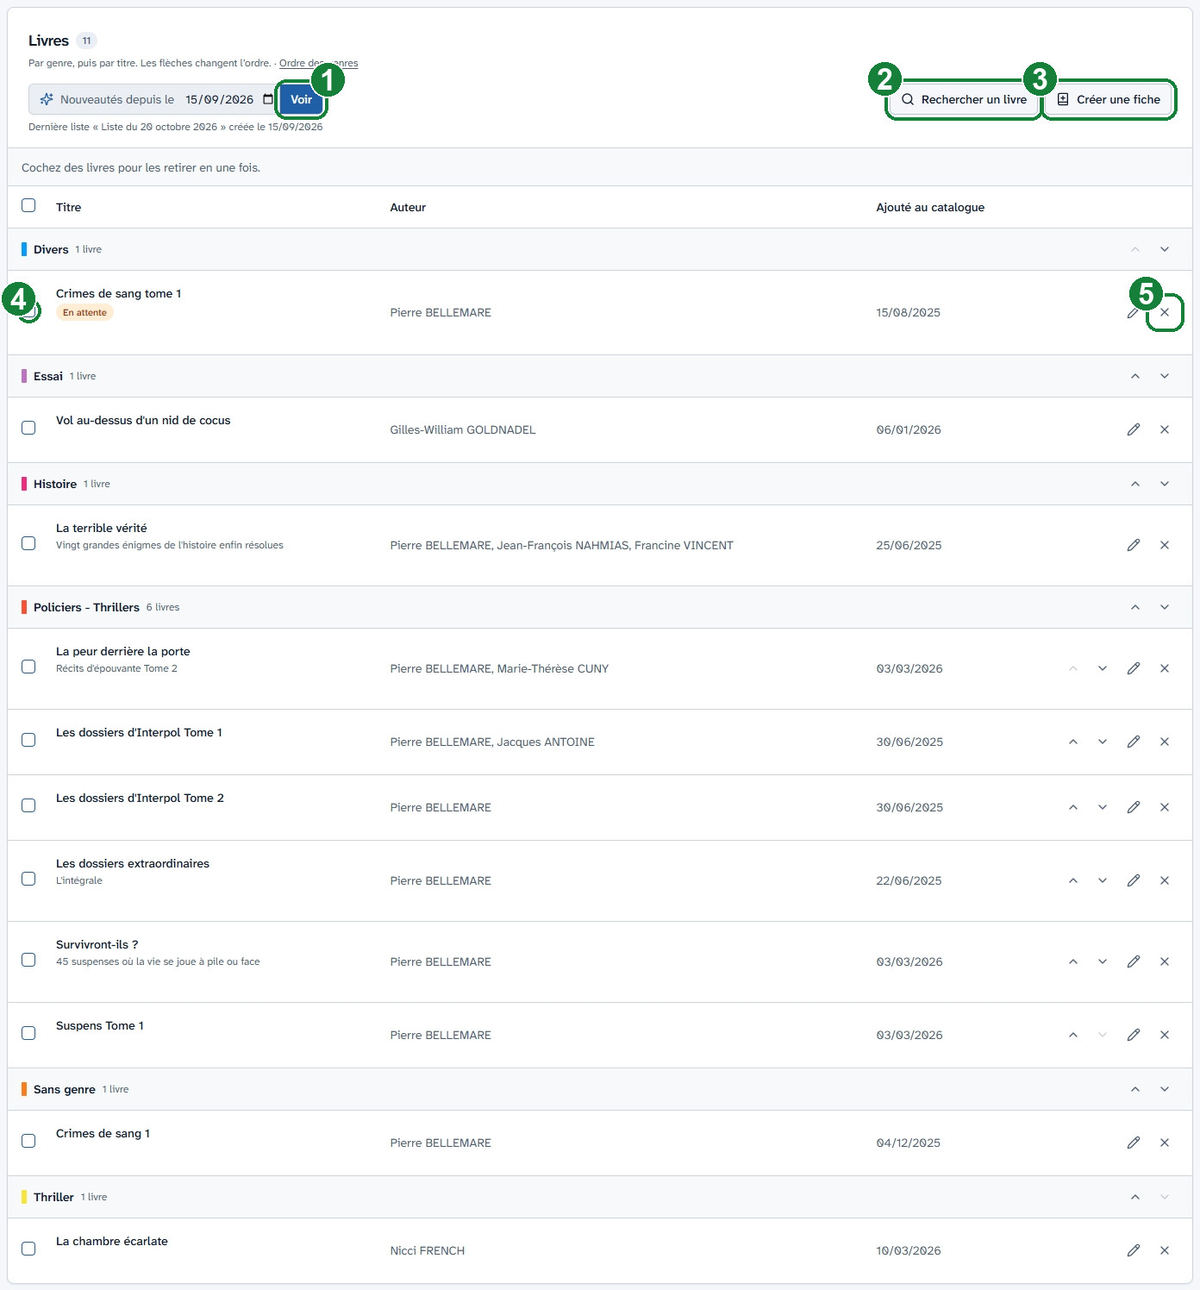
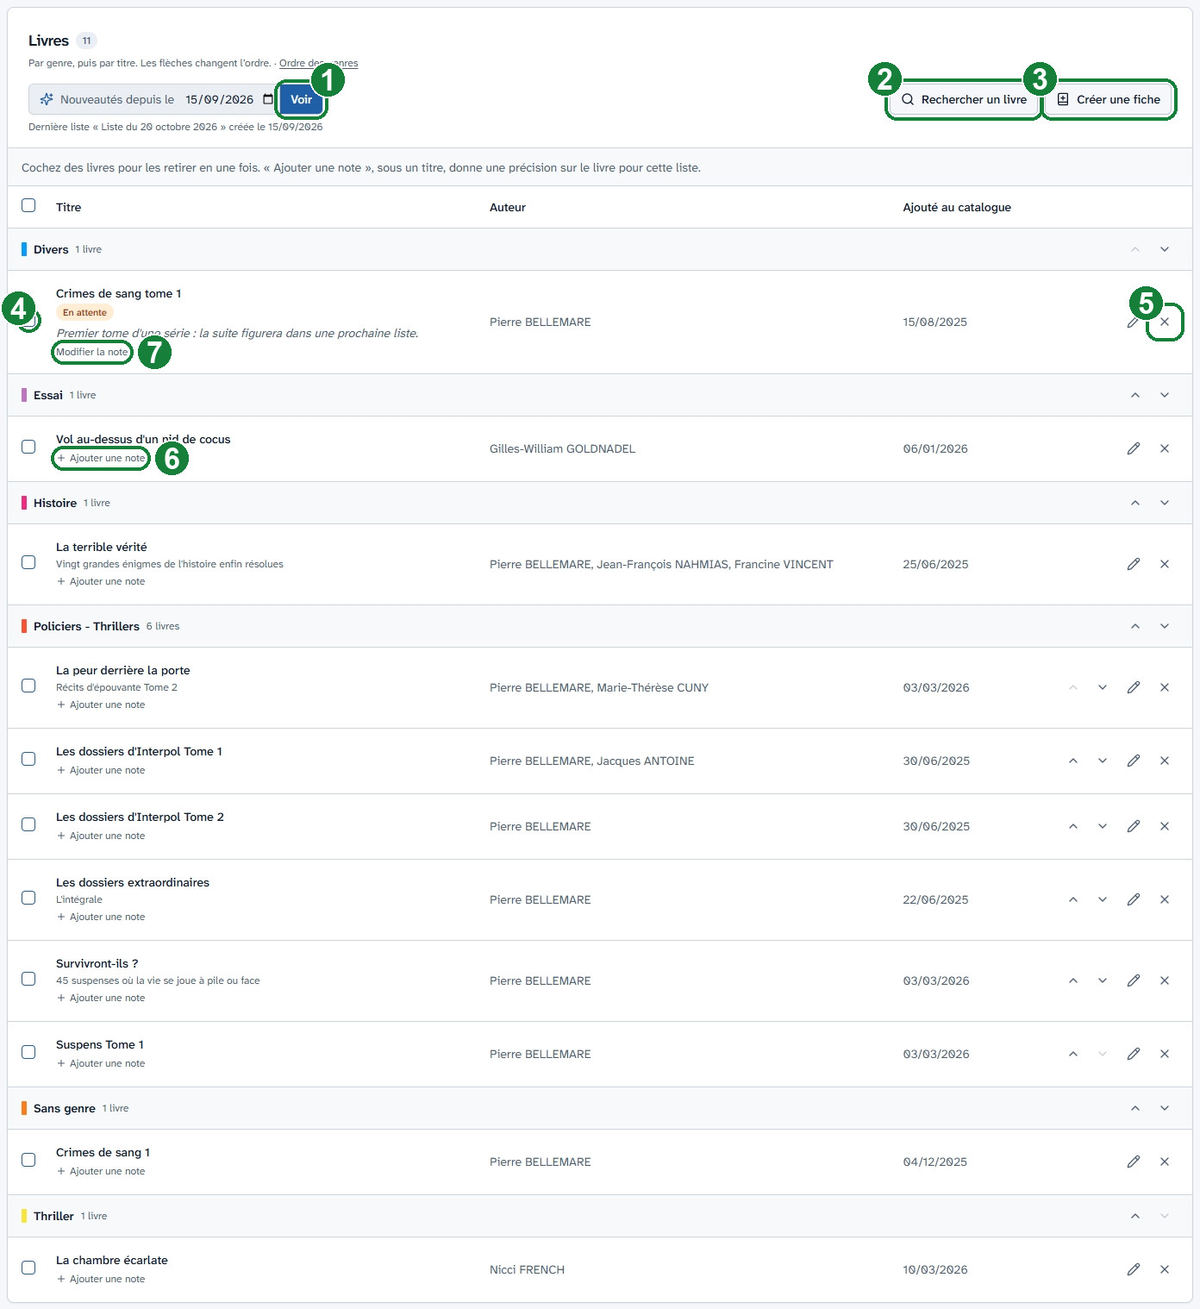
Listes de livres : « Ajouter une note » toujours visible
Le lien n'apparaissait qu'au survol : personne ne découvrait les notes.
Il reste affiché, en gris discret, et la ligne au-dessus du tableau le
signale. Le guide le décrit avec une capture refaite (repères 6 et 7).

diff --git a/app/admin/listes-de-livres/components/books-section.tsx b/app/admin/listes-de-livres/components/books-section.tsx
@@ -387,8 +387,11 @@ export default function BooksSection({ books, setBooks, notes, customOrder, setC
                                         </button>
                                     </>
                                 ) : (
+                                    // La note, dite une fois ici plutôt que sur chaque ligne :
+                                    // son lien reste discret, et rien d'autre ne l'annonce.
                                     <span className="text-muted-foreground">
-                                        Cochez des livres pour les retirer en une fois.
+                                        Cochez des livres pour les retirer en une fois. « Ajouter une note », sous un
+                                        titre, donne une précision sur le livre pour cette liste.
                                     </span>
                                 )}
                                 {/* Un avertissement, pas une règle : republier un titre est
@@ -488,10 +491,11 @@ export default function BooksSection({ books, setBooks, notes, customOrder, setC
                                                         de plus à côté du crayon de la fiche se confondait avec
                                                         lui, et une note de liste écrite dans la fiche part au
                                                         catalogue et dans toutes les listes.
-                                                        « Ajouter une note », écrit sur chaque ligne, se lisait
-                                                        cinquante fois par liste : il n'apparaît plus qu'au
-                                                        survol ou au clavier (toujours sur un écran tactile,
-                                                        qui n'a pas de survol). « Modifier la note » reste. */}
+                                                        « Ajouter une note » a été caché jusqu'au survol, pour ne
+                                                        pas se lire cinquante fois par liste : personne ne le
+                                                        découvrait. Il reste donc affiché, petit et gris comme un
+                                                        sous-titre. Pas plus pâle : en transparence, il tombait
+                                                        sous le contraste minimal du texte (2,2:1 en thème clair). */}
                                                     {notes[book.id] && (
                                                         <p className="mt-1 whitespace-pre-wrap text-sm italic text-muted-foreground">
                                                             {notes[book.id]}
@@ -499,11 +503,7 @@ export default function BooksSection({ books, setBooks, notes, customOrder, setC
                                                     )}
                                                     <button
                                                         type="button"
-                                                        className={cn(
-                                                            'mt-1 inline-flex items-center gap-1 rounded-sm text-xs text-muted-foreground underline-offset-2 hover:text-foreground hover:underline',
-                                                            !notes[book.id] &&
-                                                                '[@media(hover:hover)]:opacity-0 [@media(hover:hover)]:group-hover:opacity-100 [@media(hover:hover)]:group-focus-within:opacity-100'
-                                                        )}
+                                                        className="mt-1 inline-flex items-center gap-1 rounded-sm text-xs text-muted-foreground underline-offset-2 hover:text-foreground hover:underline"
                                                         onClick={() => setNoteBook(book)}
                                                         aria-label={`${notes[book.id] ? 'Modifier la note' : 'Ajouter une note'} pour « ${book.title} »`}
                                                     >

diff --git a/scripts/annotate-aide-screenshots.py b/scripts/annotate-aide-screenshots.py
@@ -122,10 +122,19 @@ def dessiner(chemin_image, reperes):
         # courte disparait entierement dessous — « Livre » mesure moins large
         # que la pastille. Le coin haut-DROIT, lui, donne sur le blanc qui suit
         # l'etiquette. D'ou « coin »: 'hd', pose par la spec de la capture.
+        #
+        # Et un dernier : un petit lien serre sous un titre (« Ajouter une
+        # note »). Ses deux coins du haut tombent sur le titre, qui court
+        # au-dessus de lui. « coin »: 'd' pose la pastille A DROITE du cadre, a
+        # mi-hauteur, dans le vide qui suit le lien sur sa ligne.
         rayon = max(largeur, hauteur) // 2 + 9
-        ancre_x = x1 if repere.get('coin') == 'hd' else x0
+        coin = repere.get('coin')
+        if coin == 'd':
+            ancre_x, ancre_y = x1 + rayon + 4, (y0 + y1) // 2
+        else:
+            ancre_x, ancre_y = (x1 if coin == 'hd' else x0), y0
         cx = min(max(ancre_x, rayon), image.width - rayon - 1)
-        cy = min(max(y0, rayon), image.height - rayon - 1)
+        cy = min(max(ancre_y, rayon), image.height - rayon - 1)
         dessin.ellipse([cx - rayon, cy - rayon, cx + rayon, cy + rayon],
                        fill=VERT, outline=(255, 255, 255), width=2)
         dessin.text((cx - largeur // 2 - boite[0], cy - hauteur // 2 - boite[1]),

diff --git a/content/aide/05-liste-de-livres.md b/content/aide/05-liste-de-livres.md
@@ -77,6 +77,8 @@ Une fois la liste commencée, le bloc Livres se présente ainsi :
 - (3) « **Créer une fiche** » ajoute un livre entièrement nouveau. En procédant ainsi, le livre sera ÉGALEMENT ajouté au catalogue.
 - (4) Cochez plusieurs livres, puis cliquez sur « Retirer de la liste » pour les retirer d'un coup.
 - (5) La croix au bout d'une ligne retire ce livre.
+- (6) « **Ajouter une note** », sous le titre d'un livre, lui ajoute une précision pour cette liste (voir « Ajouter une note à un livre » plus bas).
+- (7) Une fois la note écrite, elle s'affiche en italique sous le titre, suivie de « **Modifier la note** ».
 
 ![Liste de Livres - capture 8](/admin/aide/images/liste-de-livres-08.jpg)
 
@@ -97,13 +99,11 @@ Dès qu'un ordre est choisi, le haut du bloc Livres indique « **Ordre choisi** 
 
 Une note donne une précision sur un livre pour cette liste seulement (« Prix Goncourt 2026 », « Lu par l'auteur »…). Le même livre dans une autre liste a sa propre note, ou aucune ; la fiche du livre, le catalogue et l'annonce vocale ne la montrent jamais.
 
-Passez la souris sur la ligne d'un livre : le lien « **+ Ajouter une note** » apparaît sous son titre (au clavier, en arrivant sur la ligne ; sur une tablette ou un téléphone, il est toujours affiché). Cliquez dessus. Saisissez la note (500 caractères au plus) dans la fenêtre, puis cliquez sur « **Enregistrer la note** ». La note s'affiche en italique sous le titre du livre. Elle s'affiche aussi en italique après la présentation du livre, sur le site public et dans la liste imprimée.
+Sous le titre de chaque livre du tableau figure le lien « **+ Ajouter une note** » (repère 6 de la capture 8) ; la ligne grise au-dessus du tableau le rappelle. Cliquez dessus. Saisissez la note (500 caractères au plus) dans la fenêtre, puis cliquez sur « **Enregistrer la note** ». La note s'affiche en italique sous le titre du livre. Elle s'affiche aussi en italique après la présentation du livre, sur le site public et dans la liste imprimée.
 
-Pour changer une note, cliquez sur « **Modifier la note** », sous la note. Le bouton « **Supprimer la note** » de la fenêtre la retire. Une note vidée est retirée elle aussi.
+Pour changer une note, cliquez sur « **Modifier la note** », sous la note (repère 7). Le bouton « **Supprimer la note** » de la fenêtre la retire. Une note vidée est retirée elle aussi.
 
 La note est enregistrée tout de suite, sans attendre le bouton « Enregistrer » de la liste : un message « Note enregistrée » le confirme. Seule exception : un livre que vous venez d'ajouter à la liste. Sa note est enregistrée avec la liste, et le bouton de la fenêtre s'appelle alors « **Valider** ». Il en va de même pour toutes les notes d'une liste pas encore créée.
-
-La capture ci-dessus date d'avant les notes : le lien « Ajouter une note » n'y figure pas encore.
 
 Lorsque vous êtes prêt, cliquez sur « **Créer la liste** » (ou « **Enregistrer** » pour une liste existante) dans la barre d'enregistrement en bas de l'écran (1).
 
